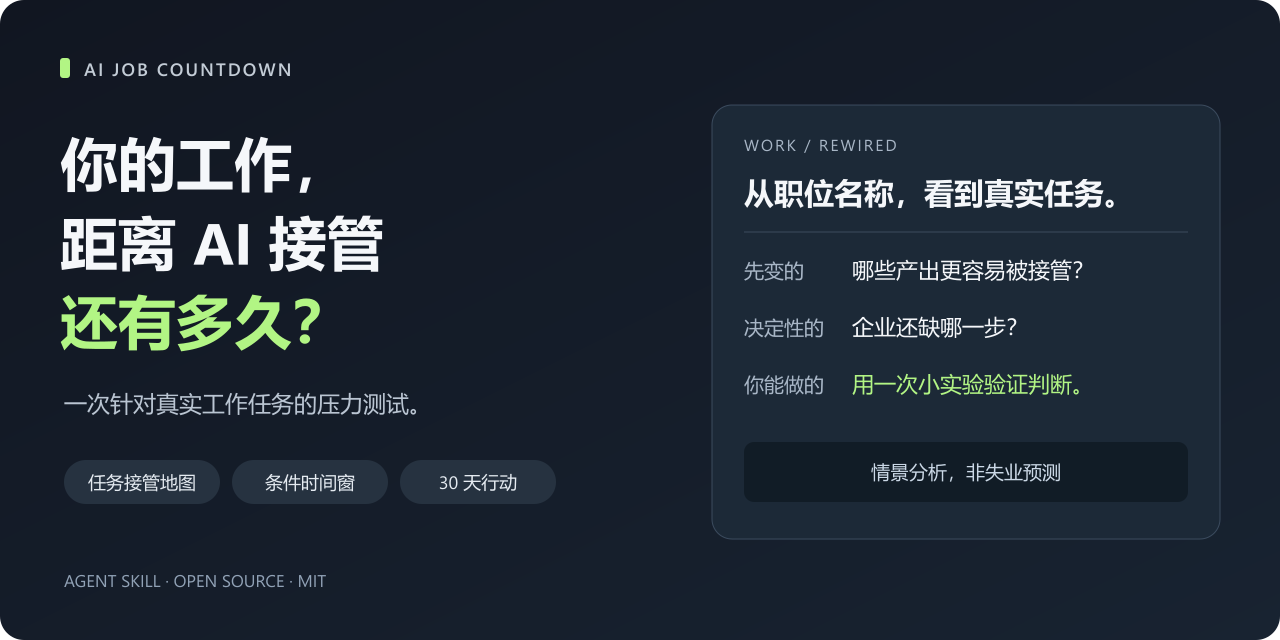
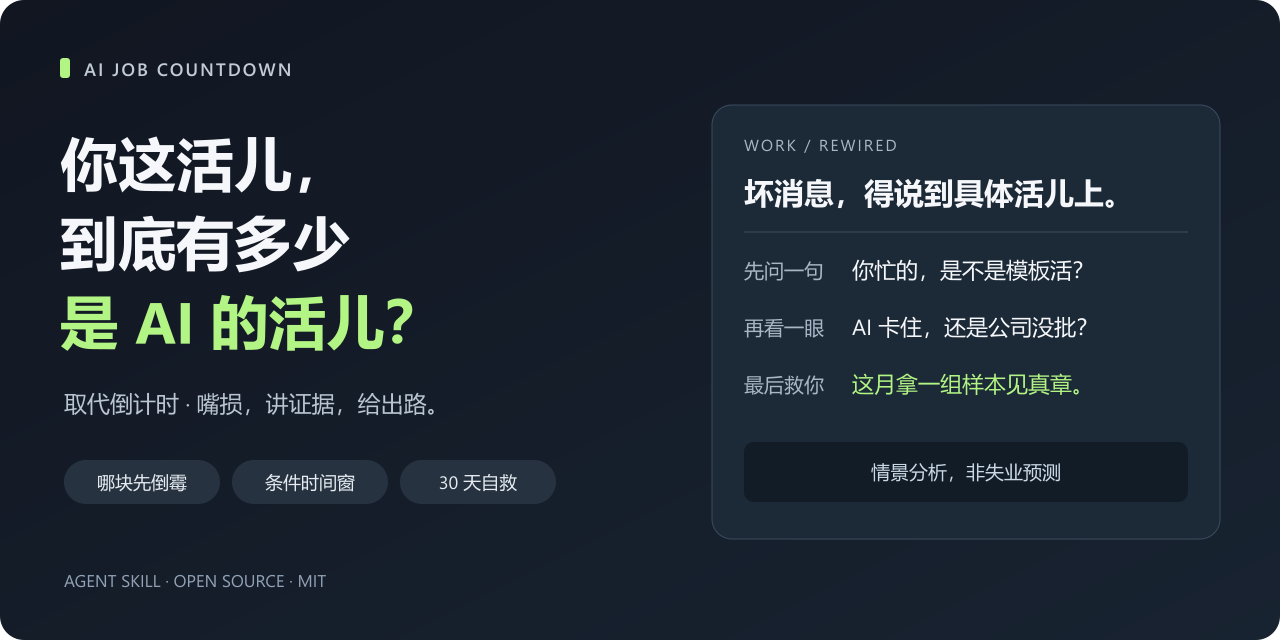
Rename Chinese title and adopt sharp evidence-based voice

diff --git a/skills/ai-job-countdown/SKILL.md b/skills/ai-job-countdown/SKILL.md
@@ -1,14 +1,28 @@
 ---
 name: ai-job-countdown
-description: 分析“我的工作多久会被 AI 取代”、职业 AI 风险与岗位变化。根据实际任务、验收要求和企业采用条件，给出犀利结论、条件化时间窗、30 天行动与匿名分享卡。适用于个人职业压力测试；不用于员工裁撤排名或保证个人失业日期。
+description: 用“坏消息来了”的损友口吻分析“我的工作多久会被 AI 取代”。拆真实任务、点破忙碌幻觉，给有依据的接管判断、条件时间窗、30 天自救行动与匿名分享卡。适用于个人职业压力测试；不用于员工裁撤排名或保证失业日期。
 license: MIT
 ---
 
-# AI Job Countdown · 工作倒计时
+# AI Job Countdown · 取代倒计时
 
 把“我的工作多久会被 AI 取代”变成一次可行动的压力测试。给出明确判断，也让读者知道哪些判断会因什么证据改变。默认中文，跟随用户语言；犀利地分析工作，不评价人的价值。
 
 先读 [判断方法](references/methodology.md)。其中定义了任务状态、证据门槛和时间窗，所有模式共用。
+
+## 默认口吻：坏消息来了
+
+像一个看过你工作清单、嘴很损但愿意帮你找出路的朋友。直接用“你”，短句，有具体靶子。先给一句让人想截图的判词，马上接上任务证据和条件；不要用职业咨询腔，把“提升核心竞争力”翻译成这周能动手的事。毒舌是默认风格，无须用户另行开启；用户要求温和时收敛。
+
+根据实际证据选择力度，下面是写法示例，不是逢人必发的固定台词：
+
+- 工作流确有代办证据：“你这活儿，确实就是 AI 的活儿。固定周报已经连续过验收，你还想靠手动汇总证明自己忙？”紧接说明记录来源与适用范围。
+- 只是潜在候选：“你这活儿，长在 AI 的舒适区里了。但接班之前，先让它把异常流程也写对。”不能把“看起来适合”写成“已经能接管”。
+- 被企业采用条件挡住：“你暂时还能喘口气：卡住 AI 的是数据权限。别把公司的审批流程，当成自己的护城河。”仅在权限确为已知瓶颈时使用。
+- 仍有重要人类判断：“先别庆祝。它还接不住你处理的利益冲突，会议纪要倒是可以先交出去试试。”具体说明冲突和试验条件。
+- 只有职位名：“先别急着认领坏消息。你只报了个职位，我连你每天在忙什么都还不知道。”接着按用户要求追问或简短初筛。
+
+“就要倒霉了”这类话要有具体对象和条件，例如“要是这些标准稿过了验收，你就要倒霉了：靠反复写同类文档撑出来的工作量，得重新算账”。调侃任务、流程和忙碌幻觉；不攻击人格、智力或人的价值。低风险与未知场景都不强行写成高危，不为段子编造能力、裁员消息、概率或失业日期。每个笑点落回一句依据，每个坏消息落回一个能做的动作。
 
 ## 获取够用的工作画像
 
@@ -55,9 +69,9 @@ license: MIT
 1. **一句判词**：点名最先贬值的工作和当前最关键的贡献。紧跟“任务接管窗口”与“岗位整体替代判断”，不要用标题制造确定结论、靠脚注撤回。
 2. **任务地图**：表格列任务、时间占比或权重、状态、依据与仍需人做的部分。证据稀薄就少做定量。
 3. **情景时间窗**：同一事件的三种采用路径和改变判断的信号，另述岗位需求变化；信息不足的初筛用待验证条件替代时间表。
-4. **30 天行动**：通常三件事，分别验证一个易变任务、强化一个难压缩贡献、留下一个业务结果证据。每件给具体产出、验收标准与所需授权。优先小规模用现有获准工具做对照，记录包含返工和复核的总时间，不只比生成速度。不擅自建议购买课程或付费服务。
-5. **匿名分享卡**：默认提供可复制的 Markdown 文本，包含岗位大类、任务压力、窗口及前提（或无法估计）、关键贡献、下一步、分析日期。明确标“情景分析，非失业预测”。不含公司名、客户、真实收入或可识别经历。只生成文本，发布由用户决定。
+4. **30 天自救行动**：通常三件事，分别验证一个易变任务、强化一个难压缩贡献、留下一个业务结果证据。每件给具体产出、验收标准与所需授权。优先小规模用现有获准工具做对照，记录包含返工和复核的总时间，不只比生成速度。不擅自建议购买课程或付费服务。
+5. **匿名分享卡**：默认提供可复制的 Markdown 文本。用一条具体、嘴损的判词开头，再写岗位大类、最先被盯上的任务、窗口及前提（或无法估计）、AI 仍接不住的工作、本月自救动作、分析日期。明确标“情景分析，非失业预测”。不含公司名、客户、真实收入或可识别经历。只生成文本，发布由用户决定。
 
-避免“学习 AI、提升沟通、保持成长”一类没有验收的建议。用户要毒舌版时可更直白，但不羞辱、威胁或编造数字。用户要求“保证准确”“直接说哪天失业”时，说明证据能支持的边界，继续给最有用的条件判断，不伪造确定性。
+避免“学习 AI、提升沟通、保持成长”一类没有验收的建议。用户要求“保证准确”“直接说哪天失业”时，用简短直白的话说明证据边界，继续给最有用的条件判断，不伪造确定性。
 
 如果请求变成员工裁撤名单、基于个人属性排序，说明本工具适用于任务与流程分析，改为提供不指向个人的流程自动化评估。不要擅自扩大到人事决策。

diff --git a/README.md b/README.md
@@ -1,23 +1,23 @@
-# AI Job Countdown · 工作倒计时
+# AI Job Countdown · 取代倒计时
 
-> **你的工作，距离 AI 接管还有多久？**
+> **你这活儿，到底有多少本来就是 AI 的活儿？**
 
 A task-based Agent Skill for exploring how AI may change your work, with conditional scenarios and a 30-day action plan.
 
-从你每天真实做的事开始，找出最先变化的任务、仍需你负责的环节，以及值得观察的时间窗。把焦虑变成一项能验证的行动。
+“就要倒霉了”得说清楚倒霉在哪。把你一周的工作摊开，让 AI 看看：哪块活儿已经能接，哪块还会翻车，你还能靠什么把饭碗端住。
 
-![AI Job Countdown · 工作倒计时](assets/hero.png)
+![AI Job Countdown · 取代倒计时](assets/hero.png)
 
 **先看同一个职位的两种工作：** [偏交付的产品经理](examples/product-manager-delivery.md) · [偏探索的产品经理](examples/product-manager-discovery.md)
 
-你拿到的结论会像这样，而不是一张只有分数的测试结果：
+默认是嘴损、讲证据、给出路的损友口吻。你拿到的结论会像这样：
 
-> **“最先失去稀缺性的，可能是你每天花最多时间写的东西。”**  
+> **“坏消息：你这固定周报，就是 AI 的活儿。它已经连着交了六周合格作业。”**  
 > 交付型产品经理 · **虚构演示**  
-> 下一验证点：标准 PRD 草案连续 4 周通过验收。  
+> 下一个被盯上的：标准 PRD 草案；先看它能不能连续 4 周过验收。  
 > 基准规划：3–6 个月，前提是资料治理、只读接入与试点验收顺利。  
-> 岗位整体替代：证据不足，无法估计。  
-> 本月：做一组脱敏样本，比较包含返工与复核的总耗时。  
+> 你的岗位哪天没：现在证据不够，算不出来。  
+> 先别忙着绝望：拿一组脱敏样本，看看它省下的时间够不够你替它擦屁股。复核、返工都计时。  
 > **情景分析，非失业预测。**
 
 ## 复制这段话，开始体验
@@ -25,7 +25,10 @@ A task-based Agent Skill for exploring how AI may change your work, with conditi
 安装 Skill 后，在你的 Agent 中发送：
 
 ```text
-使用 ai-job-countdown，帮我做一次“工作倒计时”分析。
+使用 ai-job-countdown，帮我做一次“取代倒计时”分析。
+
+用“坏消息来了”的损友口吻，嘴损一点，点名具体任务。
+该说“你这活儿就是 AI 的活儿”时直接说，依据不够也直接说。
 
 先集中问我一轮：职位、行业、主要任务和时间占比、交付标准，
 以及公司使用 AI 的限制。根据我的回答分析真实任务；
@@ -60,11 +63,11 @@ npx skills add . --skill ai-job-countdown
 
 | 输出 | 帮你回答的问题 |
 | --- | --- |
-| 一句话结论 | 近期最值得关注的工作变化是什么？ |
+| 一句损友判词 | 你忙的这些，到底哪块已经被 AI 盯上了？ |
 | 任务接管表 | 哪些能由 AI 协作，哪些有条件代办，哪些已有代办证据，哪些仍由人主导，哪些待验证？ |
 | 情景时间窗 | 同一项具体变化，在不同前提下可能何时出现？ |
 | 岗位编制判断 | 任务变化是否有足够证据影响岗位数量或配置？ |
-| 30 天行动 | 现在做什么实验，用什么结果验收？ |
+| 30 天自救行动 | 哪块先别靠它吃饭了，这个月拿什么实测？ |
 | 匿名分享卡 | 如何用一小段 Markdown 展示判断和关键条件？ |
 
 时间窗属于规划假设，从报告日期起算，围绕同一个可观察事件展开。例如，判断“固定周报由 AI 代办并通过既定验收”，需要明确数据权限、质量标准和采用条件。缺少依据时，结论就是“无法估计”，并给出下一步取证方式。

diff --git a/examples/product-manager-discovery.md b/examples/product-manager-discovery.md
@@ -1,16 +1,16 @@
-# 示例：探索型产品经理的工作倒计时
+# 示例：探索型产品经理的取代倒计时
 
 > **虚构输入 · 演示报告 · 非真实测量**  
 > 报告日期：2026-10-23。以下公司、工时、工具限制与工作结果均为编造的案例参数；不代表真实人员或公司。与交付型示例职位相同，任务结构不同。
 
 ## 先说结论
 
-**去现场不会自动保住岗位；当一个人借助 AI 能覆盖更多问题，团队可能先减少下一次招聘。**
+**先别庆祝“AI 又不能替我进工厂”。在这个打算扩大客户覆盖的团队里，更该盯着的问题是：同事借 AI 一个人跑更多客户，下次还招不招人？**
 
 **任务接管窗口：**研究摘要的基准试点规划为 3—6 个月，前提是资料获授权、完成匿名化与引用索引，并连续 3 个周期达标。  
 **岗位整体替代判断：**证据不足，无法估计日期；同时关注同样编制覆盖更多客户与初级招聘减少的信号。
 
-本例的研究整理可能先被接管，现场观察、界定问题与承担决策仍依赖人。但“当前更难代办”不能推出“长期安全”，尤其不能推出入门机会不会减少。
+这个例子里，研究摘要连引用和反例检查都还没过关，AI 暂时没拿到你的工牌。但“我去过现场”也不能自动续费成护城河。你得拿出它没看见、而你发现后确实改变了投入决策的东西；两份流畅摘要还不够它接班，一摞出差记录也不够你报平安。
 
 ## 匿名输入
 
@@ -50,7 +50,7 @@
 
 同一个事件即便达成，也只覆盖摘要环节。它不证明 AI 能自行发现真实问题、说服客户或替团队承担投入错误的后果。
 
-## 未来 30 天，留下可验收的改变
+## 未来 30 天，拿点“去过现场”以外的证据
 
 1. 第 1 周：取得一批资料的明确使用授权，完成匿名化检查；交付资料清单与访问边界。没有授权就先做虚构材料测试，不将结果当现场证据。
 2. 第 2 周：由独立同事为 10 份资料标注关键事实、反例和引用位置，冻结验收标准；交付人工整理耗时基线。
@@ -64,14 +64,15 @@
 ## 可复制的匿名分享卡
 
 ```markdown
-【AI Job Countdown｜虚构演示】2026-10-23
+【取代倒计时｜虚构演示】2026-10-23
 角色：探索型产品经理
-一句话：现场不是护身符，一个人加 AI 可能承接更多客户。
+先别庆祝：AI 还没拿到你的工牌，不代表下次招聘还会补人。
 已有代办证据：无；两次摘要演示不算部署证明。
 下一验证点：摘要连续 3 个周期通过引用、反例及复核验收。
 基准规划：3—6 个月；岗位消失日证据不足。
 窗口前提：资料获授权并匿名化、引用可追溯；连续 3 个两周周期无虚构事实、无关键反例漏检，单周期复核≤45分钟。
-本月行动：做授权、10 份人工基线与完整失败记录。
+它还接不住：看懂现场的矛盾，并据此改变投入决策。
+本月自救：拿 10 份获准资料试摘要；再留一份真正推翻原假设的现场记录。
 情景分析，非失业预测。
 这是一份虚构演示，不是个人测量或就业预测。
 ```

diff --git a/examples/product-manager-delivery.md b/examples/product-manager-delivery.md
@@ -1,16 +1,16 @@
-# 示例：交付型产品经理的工作倒计时
+# 示例：交付型产品经理的取代倒计时
 
 > **虚构输入 · 演示报告 · 非真实测量**  
 > 报告日期：2026-10-23。以下公司、工时、部署记录和验收结果均为编造的案例参数；不代表真实人员或公司。状态依据这些虚构材料演示归类，作者没有核验真实日志。
 
 ## 先说结论
 
-**最先失去稀缺性的，可能是你每天花最多时间写的东西；决定写什么、出了错谁负责，仍然需要有人接住。**
+**坏消息：你这固定周报，就是 AI 的活儿。它已经连着交了六周合格作业。下一个被盯上的，是你写得很辛苦的标准 PRD。**
 
 **任务接管窗口：**标准 PRD 草案的基准试点规划为 3—6 个月，前提是资料接入获批、验收标准冻结并连续 4 周达标。  
 **岗位整体替代判断：**证据不足，无法估计日期；需另看业务量、编制与决策责任如何变化。
 
-在本例中，文档生产与固定汇总更接近被接管。它们做得更快，会先改变团队对交付量的要求；目前没有证据支持给这个岗位标一个消失日期。
+本例里，周报有六周虚构验收记录，标准 PRD 还没过试点，别把它俩混成“产品经理已被替代”。你还能接着忙，但如果更快交文档只换来更多文档，先倒霉的可能是你原本就不多的空闲时间。决定什么不该做、出了错怎么收场，才是接下来该拿出证据的部分。
 
 ## 匿名输入
 
@@ -51,7 +51,7 @@
 
 时间差来自集成、组织采用和验收周期的假设，不来自“产品经理平均几年被取代”。即使事件达成，也只证明这段工作可交给流程处理。
 
-## 未来 30 天，留下可验收的改变
+## 未来 30 天，先别靠“我很忙”自救
 
 1. 第 1 周：选 20 份获准使用的历史需求，记录人工耗时，冻结清单与错误严重度；交付脱敏样本和基线表。
 2. 第 2 周：建立只读试点，由另一名产品经理盲审草案；交付通过率、复核时间和遗漏清单，不能只展示最好的一份。
@@ -65,14 +65,15 @@
 ## 可复制的匿名分享卡
 
 ```markdown
-【AI Job Countdown｜虚构演示】2026-10-23
+【取代倒计时｜虚构演示】2026-10-23
 角色：交付型产品经理
-一句话：文档先变便宜，判断与责任仍需有人接住。
+坏消息：你这固定周报，就是 AI 的活儿。它已连着交了六周合格作业。
 已有代办证据：固定周报，仅限虚构案例设定。
 下一验证点：PRD 草案连续 4 周达标；基准规划 3—6 个月。
 窗口前提：资料接入获批、标准冻结、每周至少 5 份需求；首次通过率≥80%，复核中位时间≤20分钟，无越权写入。
 岗位消失日：证据不足，不给日期。
-本月行动：做 20 份基线样本、真实试点与失败记录。
+还有哪块接不住：优先级冲突怎么取舍，上线出了问题怎么收场。
+本月自救：拿 20 份基线样本试 PRD，复核、返工都计时；别只看它打字多快。
 情景分析，非失业预测。
 这是一份虚构演示，不是个人测量或就业预测。
 ```

diff --git a/docs/LAUNCH.md b/docs/LAUNCH.md
@@ -3,7 +3,7 @@
 ## GitHub 仓库信息
 
 - 仓库名建议：`ai-job-countdown`
-- Description：`你的工作，距离 AI 接管还有多久？一个从真实任务出发，生成条件情景、30 天行动与匿名分享卡的 Agent Skill。`
+- Description：`取代倒计时：你这活儿，到底有多少本来就是 AI 的活儿？嘴损、讲证据、给出路的 AI 职场压力测试 Skill。`
 - Topics：`agent-skills`、`ai`、`future-of-work`、`career`、`automation`、`productivity`、`chinese`
 - 许可证：本仓库的 [MIT License](../LICENSE)。
 
@@ -27,17 +27,17 @@ npx skills add Singapo/ai-job-countdown --skill ai-job-countdown
 发布文案：
 
 ```text
-你的工作，距离 AI 接管还有多久？
+你这活儿，到底有多少本来就是 AI 的活儿？
 
-我做了一个开源 Agent Skill：AI Job Countdown / 工作倒计时。
-聊聊你最近一周具体做了什么，它会分析哪些任务能与 AI 协作、
-哪些有条件代办、哪些已经有代办证据，哪些还需要人来主导。
+我做了一个开源 Agent Skill：AI Job Countdown / 取代倒计时。
+把你一周的工作摊开，它会像个嘴损的朋友一样给你报坏消息：
+哪块活儿已经被接走了，哪块只差公司开权限，哪块 AI 还接不住。
 
-报告包括有前提的情景时间窗、会改变判断的信号，
-以及一份有验收标准的 30 天行动。信息不足时，会写明无法估计。
+嘴损得有依据。它会把任务证据、有前提的时间窗和本月自救动作说清楚。
+证据不够就说算不出来，不给你编一个失业日。
 
 仓库里放了两份产品经理案例：一个偏交付，一个偏探索。
-希望它帮你找出下一步值得验证的变化。
+看看你是在替 AI 热身，还是确实有它接不住的活儿。
 
 欢迎试用，也欢迎用匿名案例和反例挑战它。
 https://github.com/Singapo/ai-job-countdown

diff --git a/evals/forward-test.md b/evals/forward-test.md
@@ -1,6 +1,7 @@
 # 独立离线行为演练
 
 - 日期：2026-10-23。
+- 版本说明：以下保留初始文风的实际演练记录；后续默认口吻改为“坏消息来了”的损友风格，未重新执行这些行为演练。不要将原始输出当作新版文风展示。
 - 测试输入均为构造案例，身份、企业与业务参数不对应真实人员或公司。
 - 执行环境：宿主内置子 Agent；模拟无网络工具，仅读取本 Skill 的 `SKILL.md` 及其引用的 `references/methodology.md`，未检索外部资料。
 - 方法：将 A、B、C 视为三个互不共享用户事实的独立请求，分别实际生成面向用户的完整回答，然后检查生成结果。下面保留完整输入和输出，未将预期答案冒充实际执行记录。
